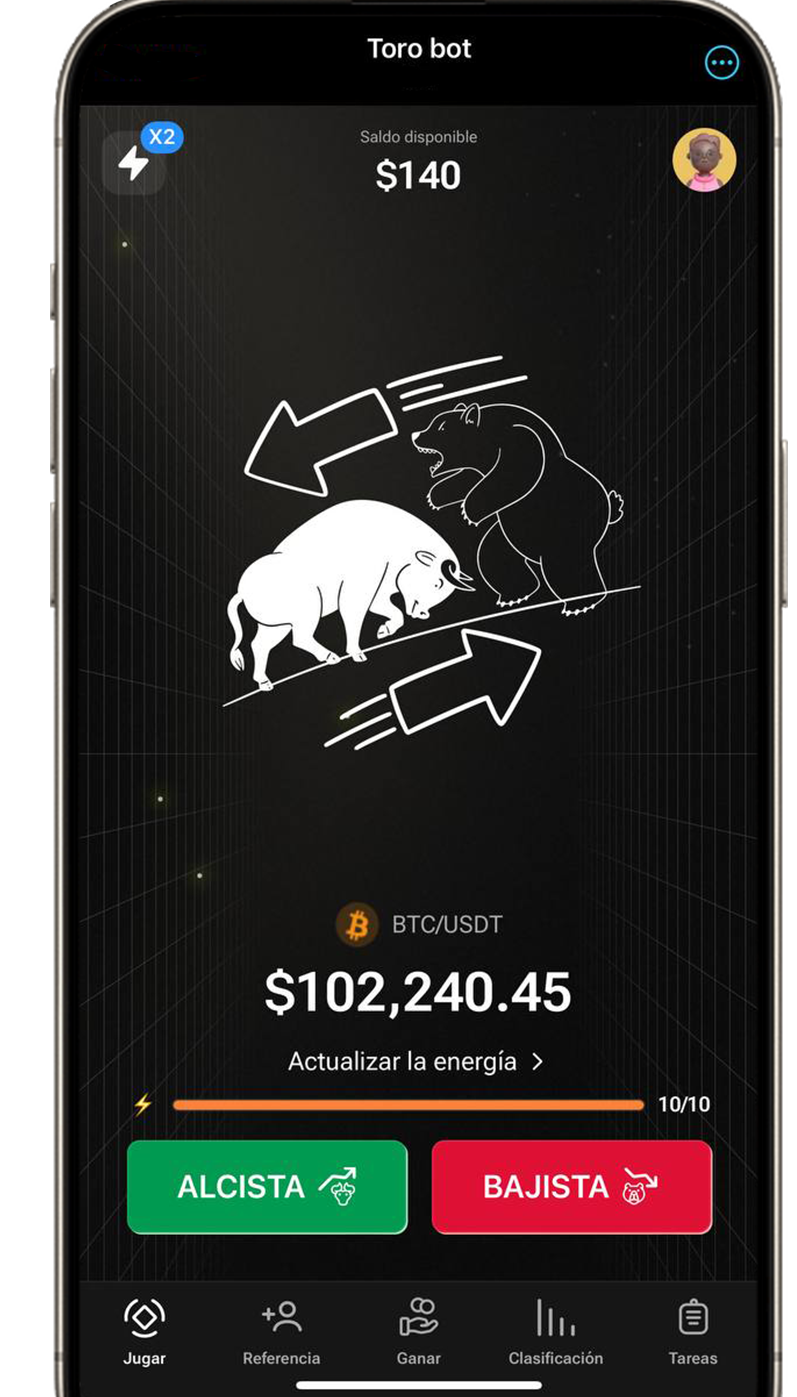
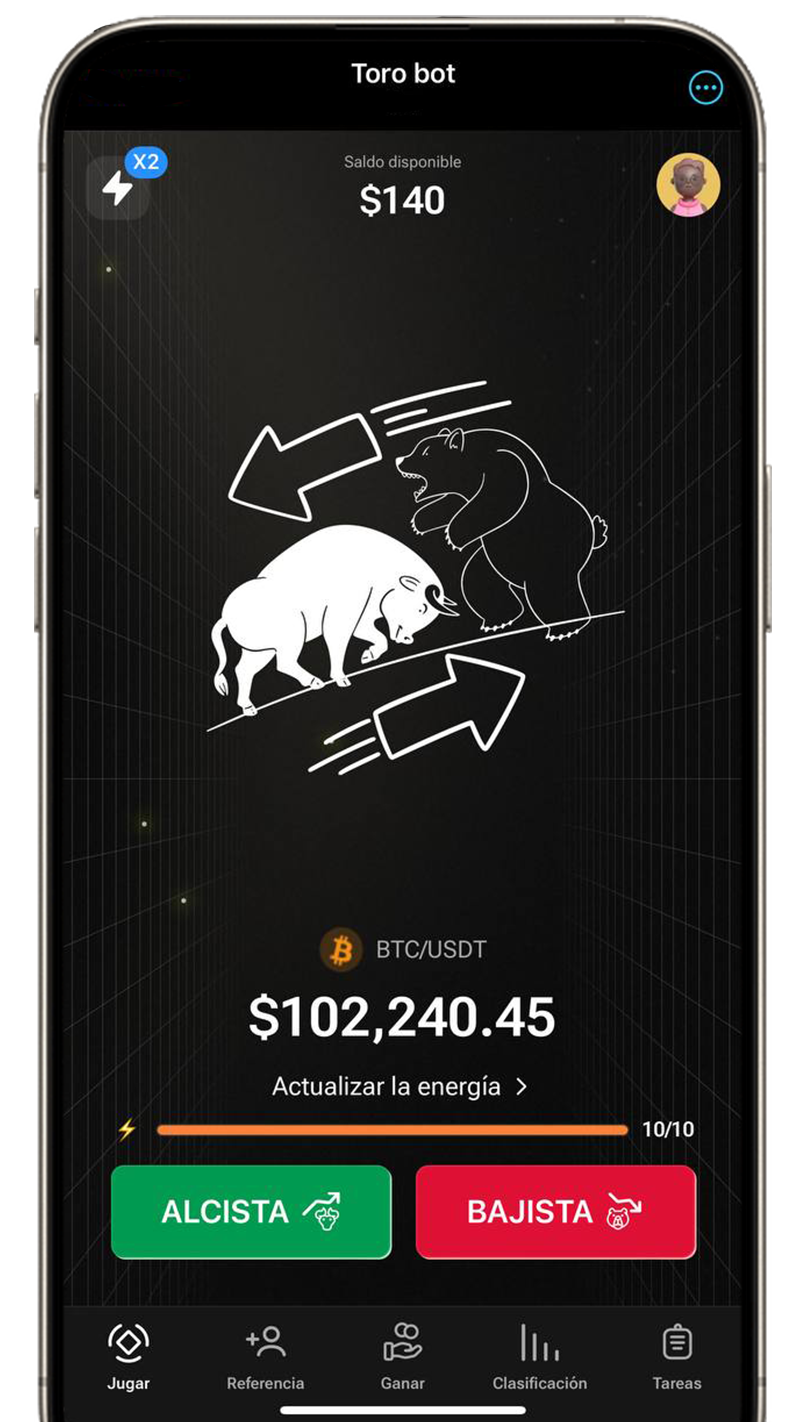
landscape

diff --git a/style.css b/style.css
@@ -26,7 +26,7 @@ body {
     margin-top: 30px;
   }
   .phone img {
-    max-width: 280px;
+    max-width: 300px;
     margin-bottom: -20px;
   }
   
